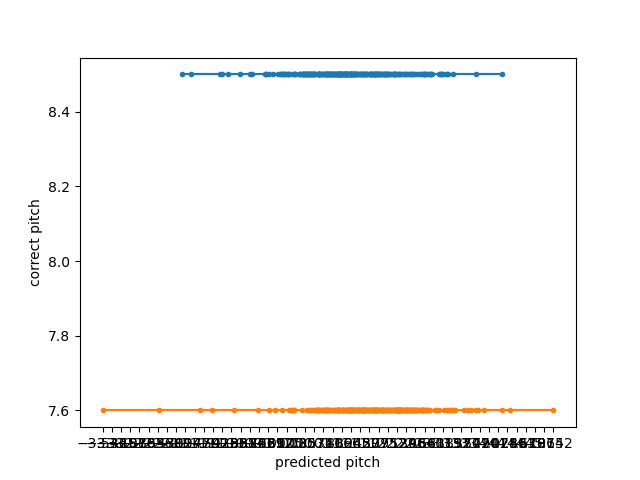
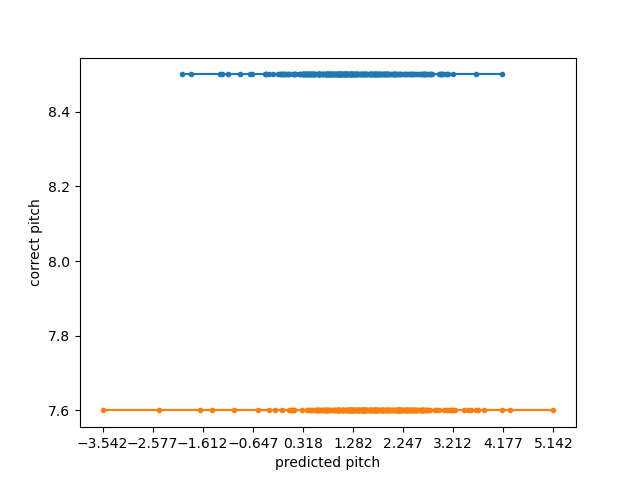
set x number of x ticks in evaulation figures for regression model to 10

Changed region(s): [[0.125, 0.9062, 0.875, 0.9375]]

diff --git a/deepLearning/regression task/evaluate.py b/deepLearning/regression task/evaluate.py
@@ -3,6 +3,8 @@ from argparse import ArgumentParser
 import matplotlib.pyplot as plt
 import numpy as np
 
+NUMBER_OF_TICKS = 10
+
 def main():
     parser = ArgumentParser()
     parser.add_argument("-i", "--input_csv_file", required=True)
@@ -24,13 +26,13 @@ def main():
     plt.plot(pred_radii, corr_radii, marker='.', linestyle="-")
     plt.xlabel("predicted radius")
     plt.ylabel("correct radius")
-    plt.xticks(np.linspace(np.min(pred_radii), np.max(pred_radii)))
+    plt.xticks(np.linspace(np.min(pred_radii), np.max(pred_radii), NUMBER_OF_TICKS))
     plt.savefig(args.output_file_prefix+"-radii.png")
 
     plt.plot(pred_pitches, corr_pitches, marker='.', linestyle="-")
     plt.xlabel("predicted pitch")
     plt.ylabel("correct pitch")
-    plt.xticks(np.linspace(np.min(pred_pitches), np.max(pred_pitches)))
+    plt.xticks(np.linspace(np.min(pred_pitches), np.max(pred_pitches), NUMBER_OF_TICKS))
     plt.savefig(args.output_file_prefix+"-pitches.png")
     
 main()